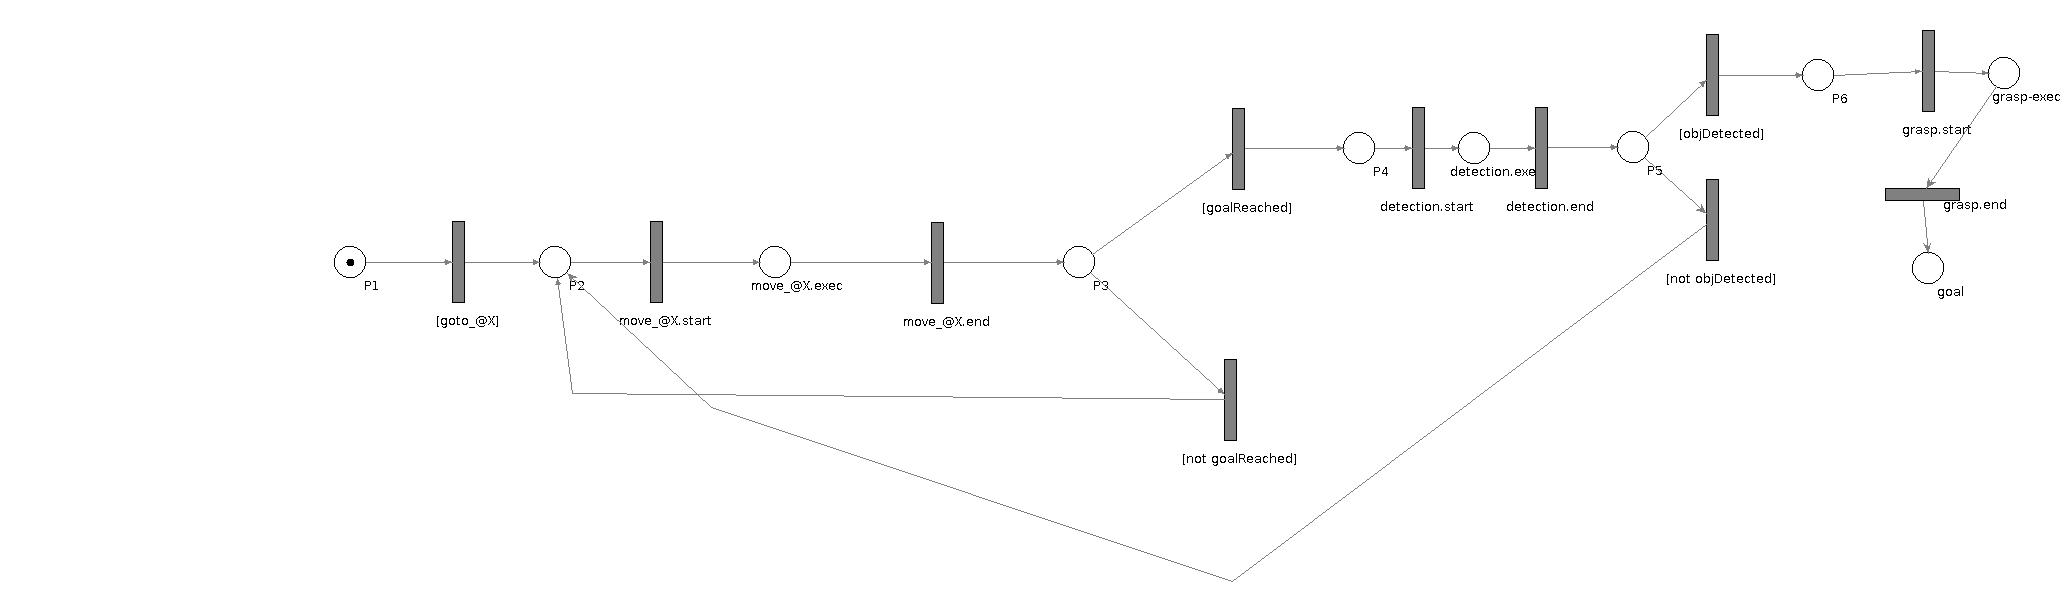
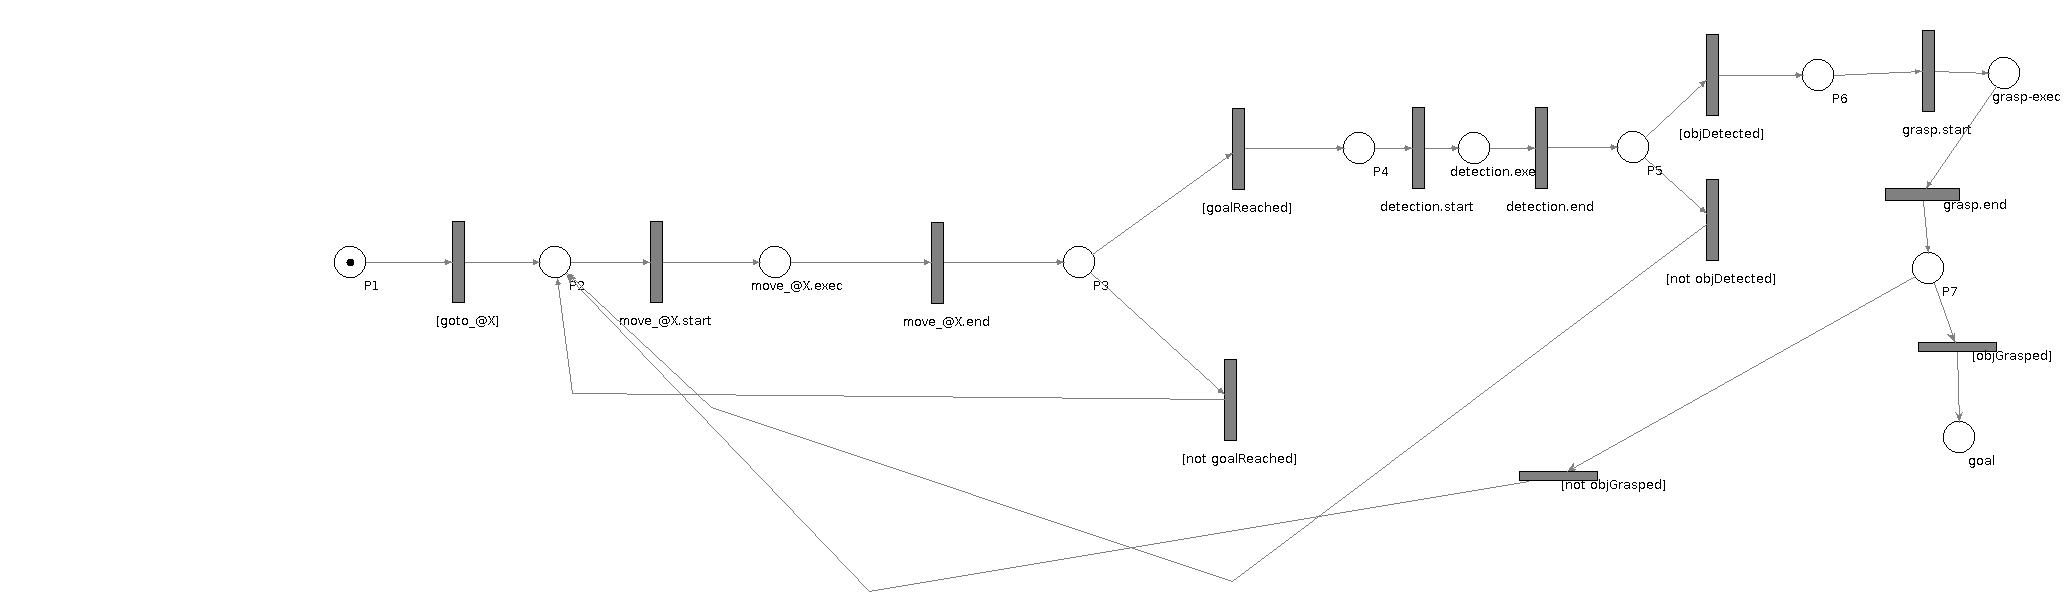
bug fix in pnp_rockin

diff --git a/pnp_rockin/src/Actions.cpp b/pnp_rockin/src/Actions.cpp
@@ -190,20 +190,36 @@ void RockinPNPActionServer::grasp(string params, bool *run) {
       //ROS_INFO("Waiting for move_base action server to come up");
     }
   }
+  ROS_INFO("grasping client ready ...");
   arm_planner::arm_planningGoal goal;
-  geometry_msgs::PoseArray array;
   std::vector<Eigen::Affine3d> poses;
-  PoseArrayToEigen(array,poses);
+  PoseArrayToEigen(detected_objects,poses);
 
+  ROS_INFO("target transformed ...");
+  if(detected_objects.poses.size()==0){
+    //ROS_INFO("cannot move the base for some reason (step 1)");
+    string param = "PNPconditionsBuffer/objGrasped";
+    handle.setParam(param, 0);
+    return;
+  }
   Eigen::Affine3d target;
+  //ROS_INFO("debug - line 1");
   target=T_kinect2arm*poses[0];
+  //ROS_INFO("debug - line 2");
   goal.mode=1;
+  //ROS_INFO("debug - line 3");
   goal.cartesian_position.x=target.translation()(0);
+  //ROS_INFO("debug - line 4");
   goal.cartesian_position.y=target.translation()(1);
+  //ROS_INFO("debug - line 5");
   goal.cartesian_position.z=target.translation()(2);
+  //ROS_INFO("debug - line 6");
   goal.gripper_roll=1;
+  //ROS_INFO("debug - line 7");
   goal.gripper_pitch=80;
+  //ROS_INFO("debug - line 8");
 
+  ROS_INFO("grasping sending goal ...");
   ac_grasping->sendGoal(goal);
   ac_grasping->waitForResult();
 
